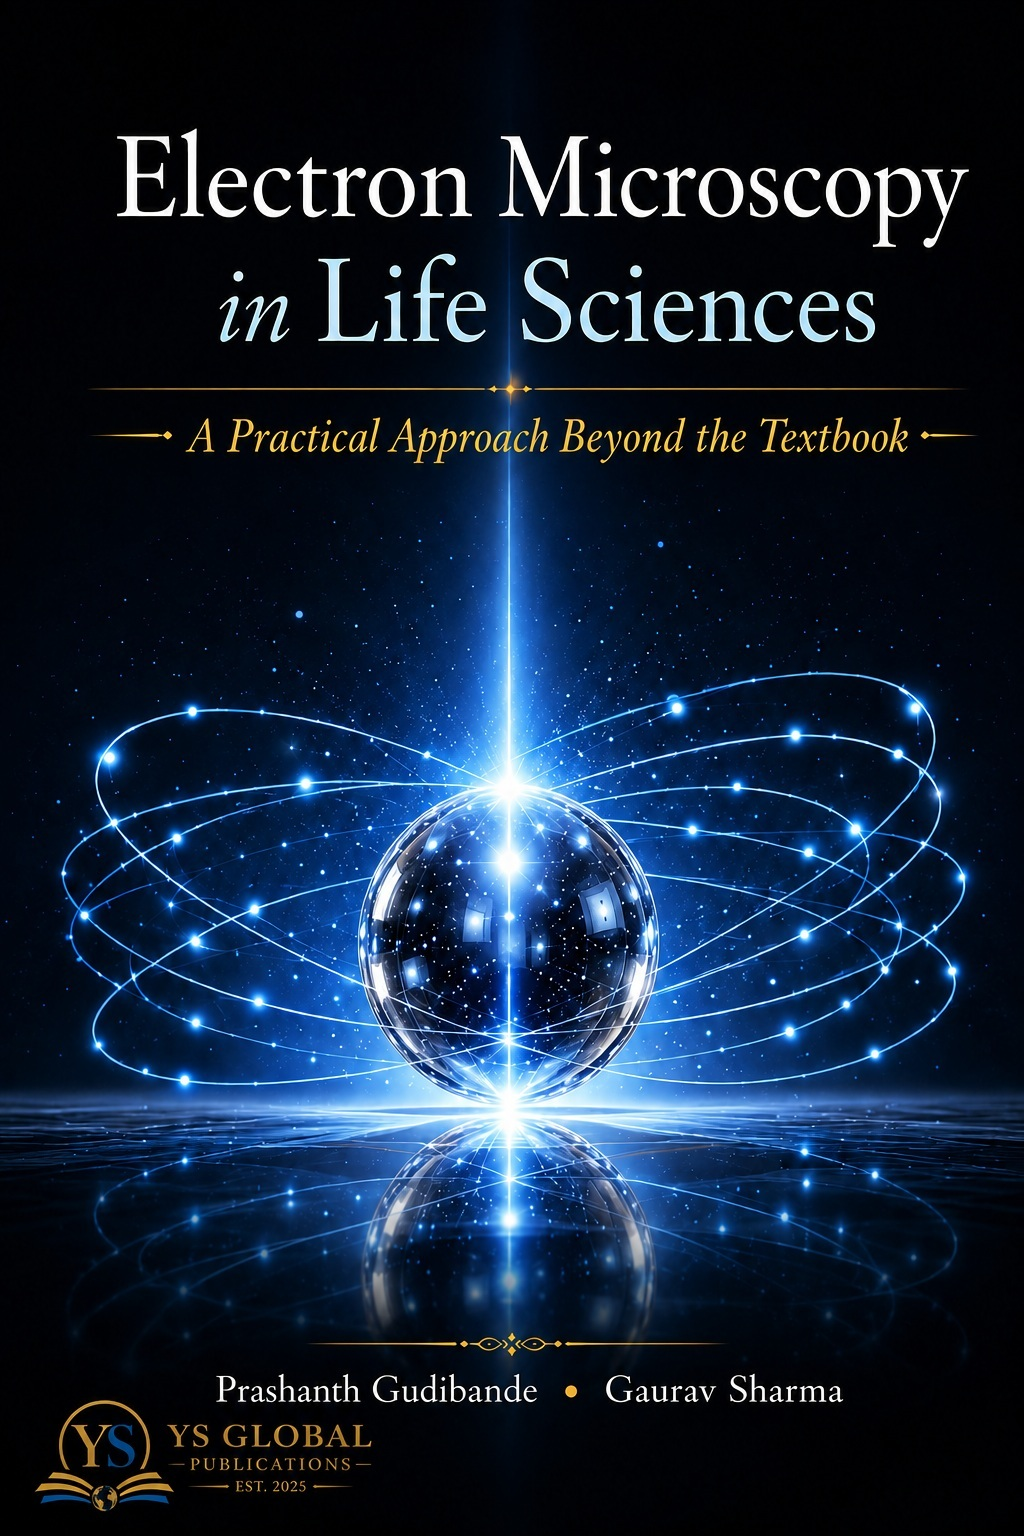
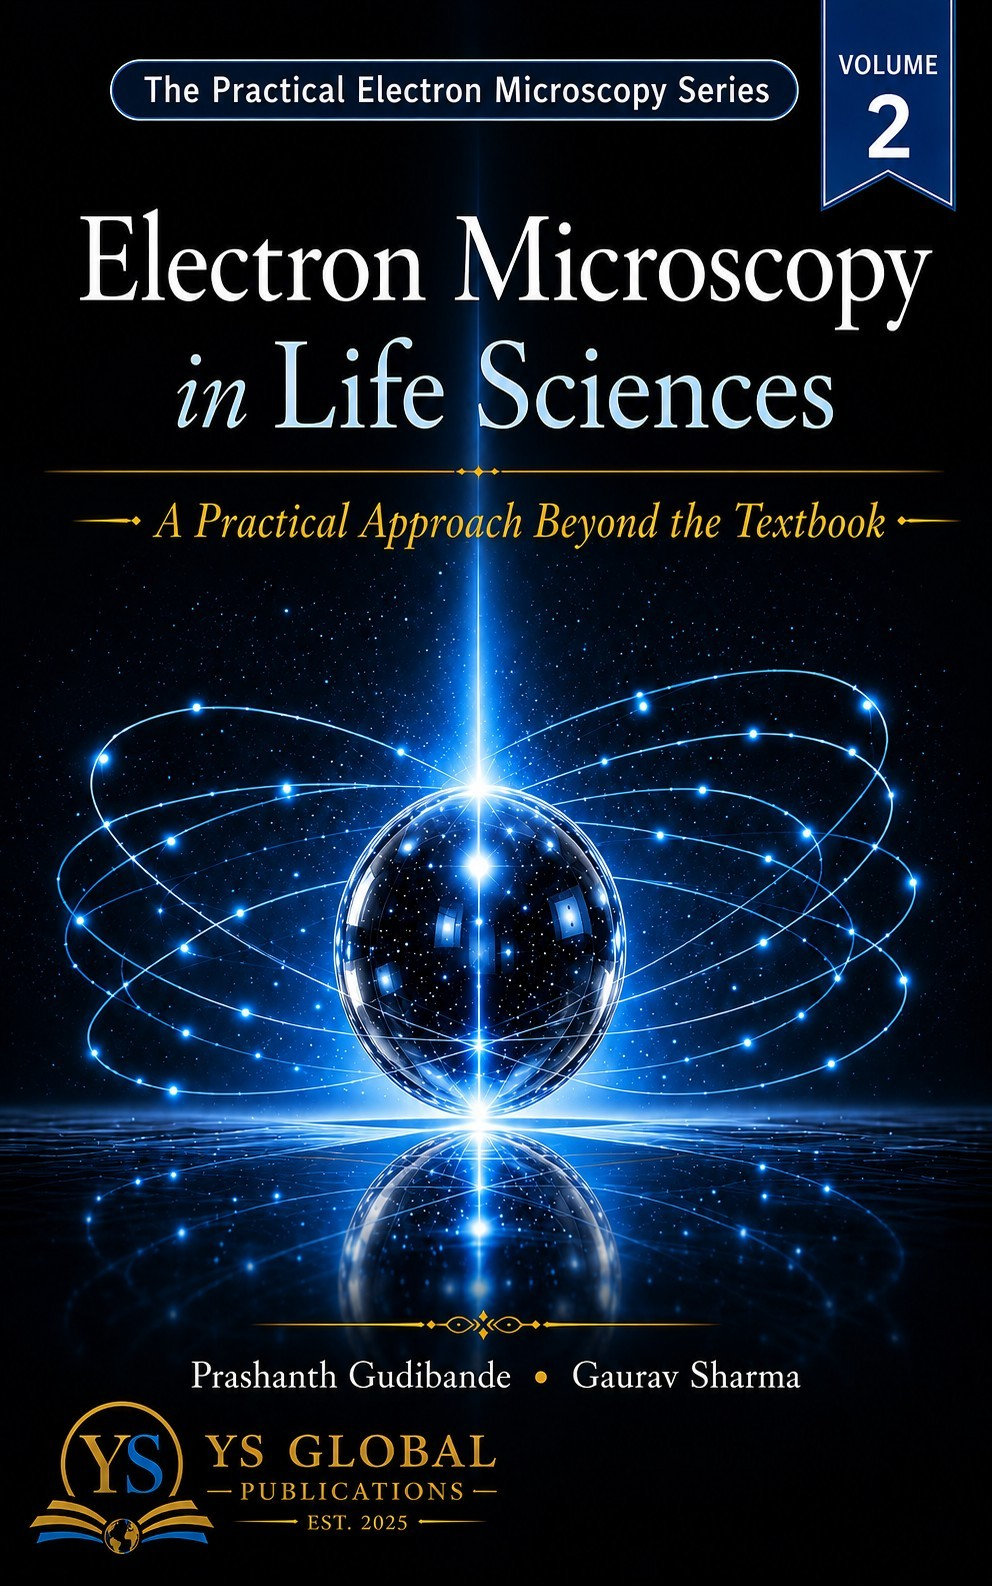
Update Electron Microscopy in Life Sciences to published status

diff --git a/index.html b/index.html
@@ -506,7 +506,7 @@
         </div>
 
 
-        <!-- Upcoming -->
+        <!-- Featured Publication -->
 
         <div class="upcoming-publication">
 
@@ -522,7 +522,7 @@
             <div class="upcoming-copy">
 
                 <div class="book-meta">
-                    UPCOMING PUBLICATION
+                    NOW AVAILABLE
                 </div>
 
                 <h3>
